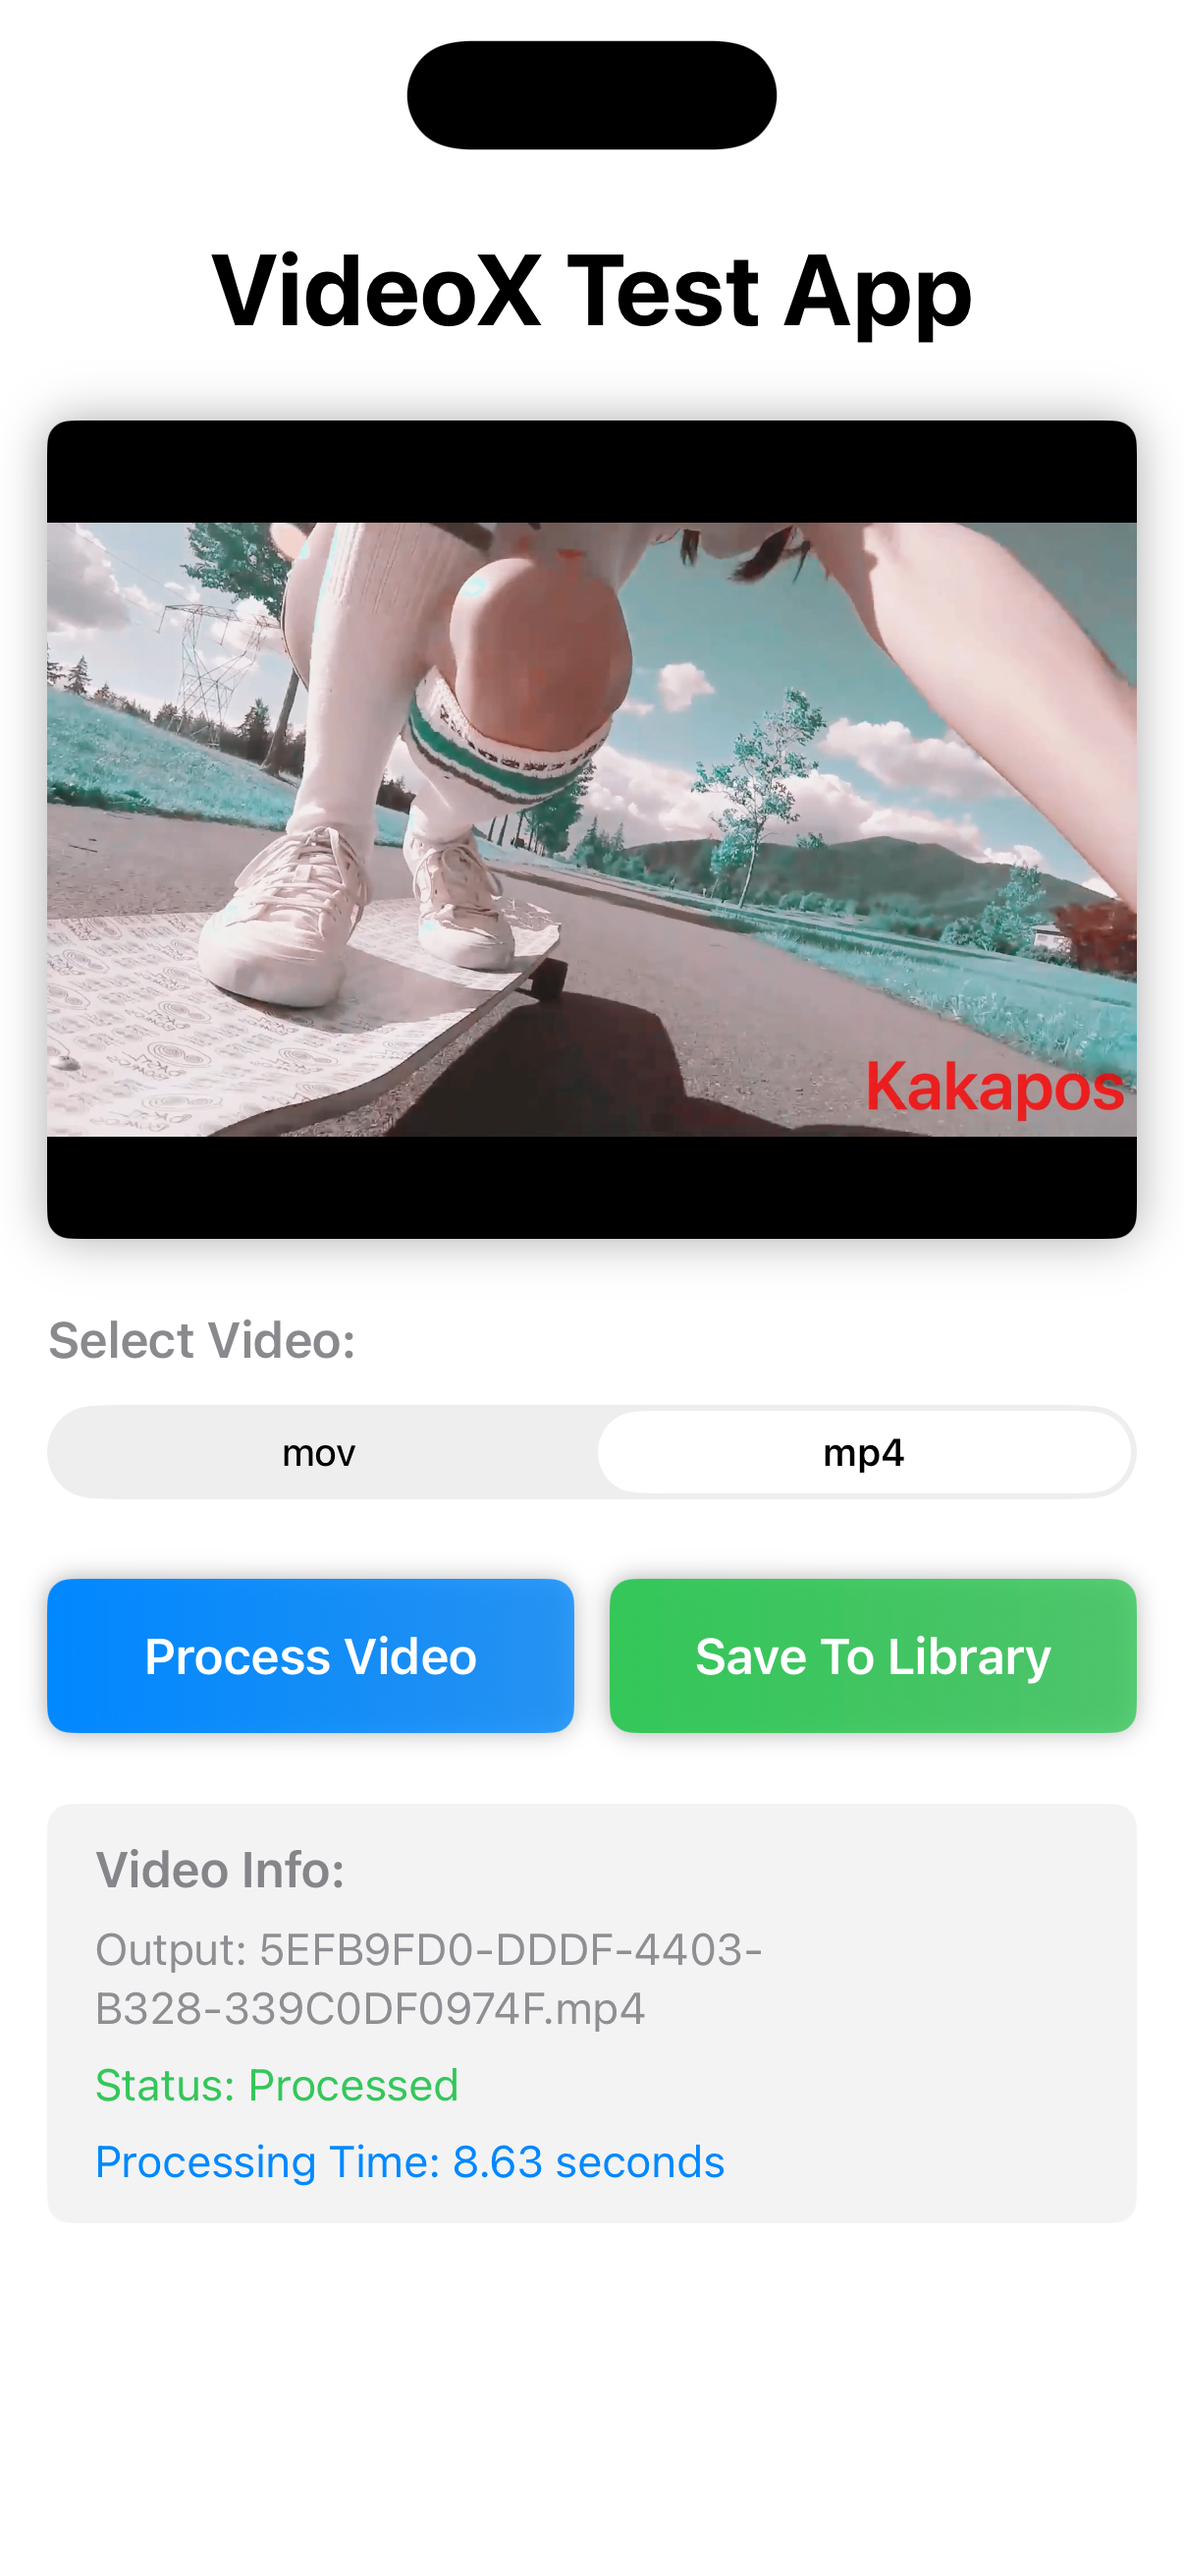
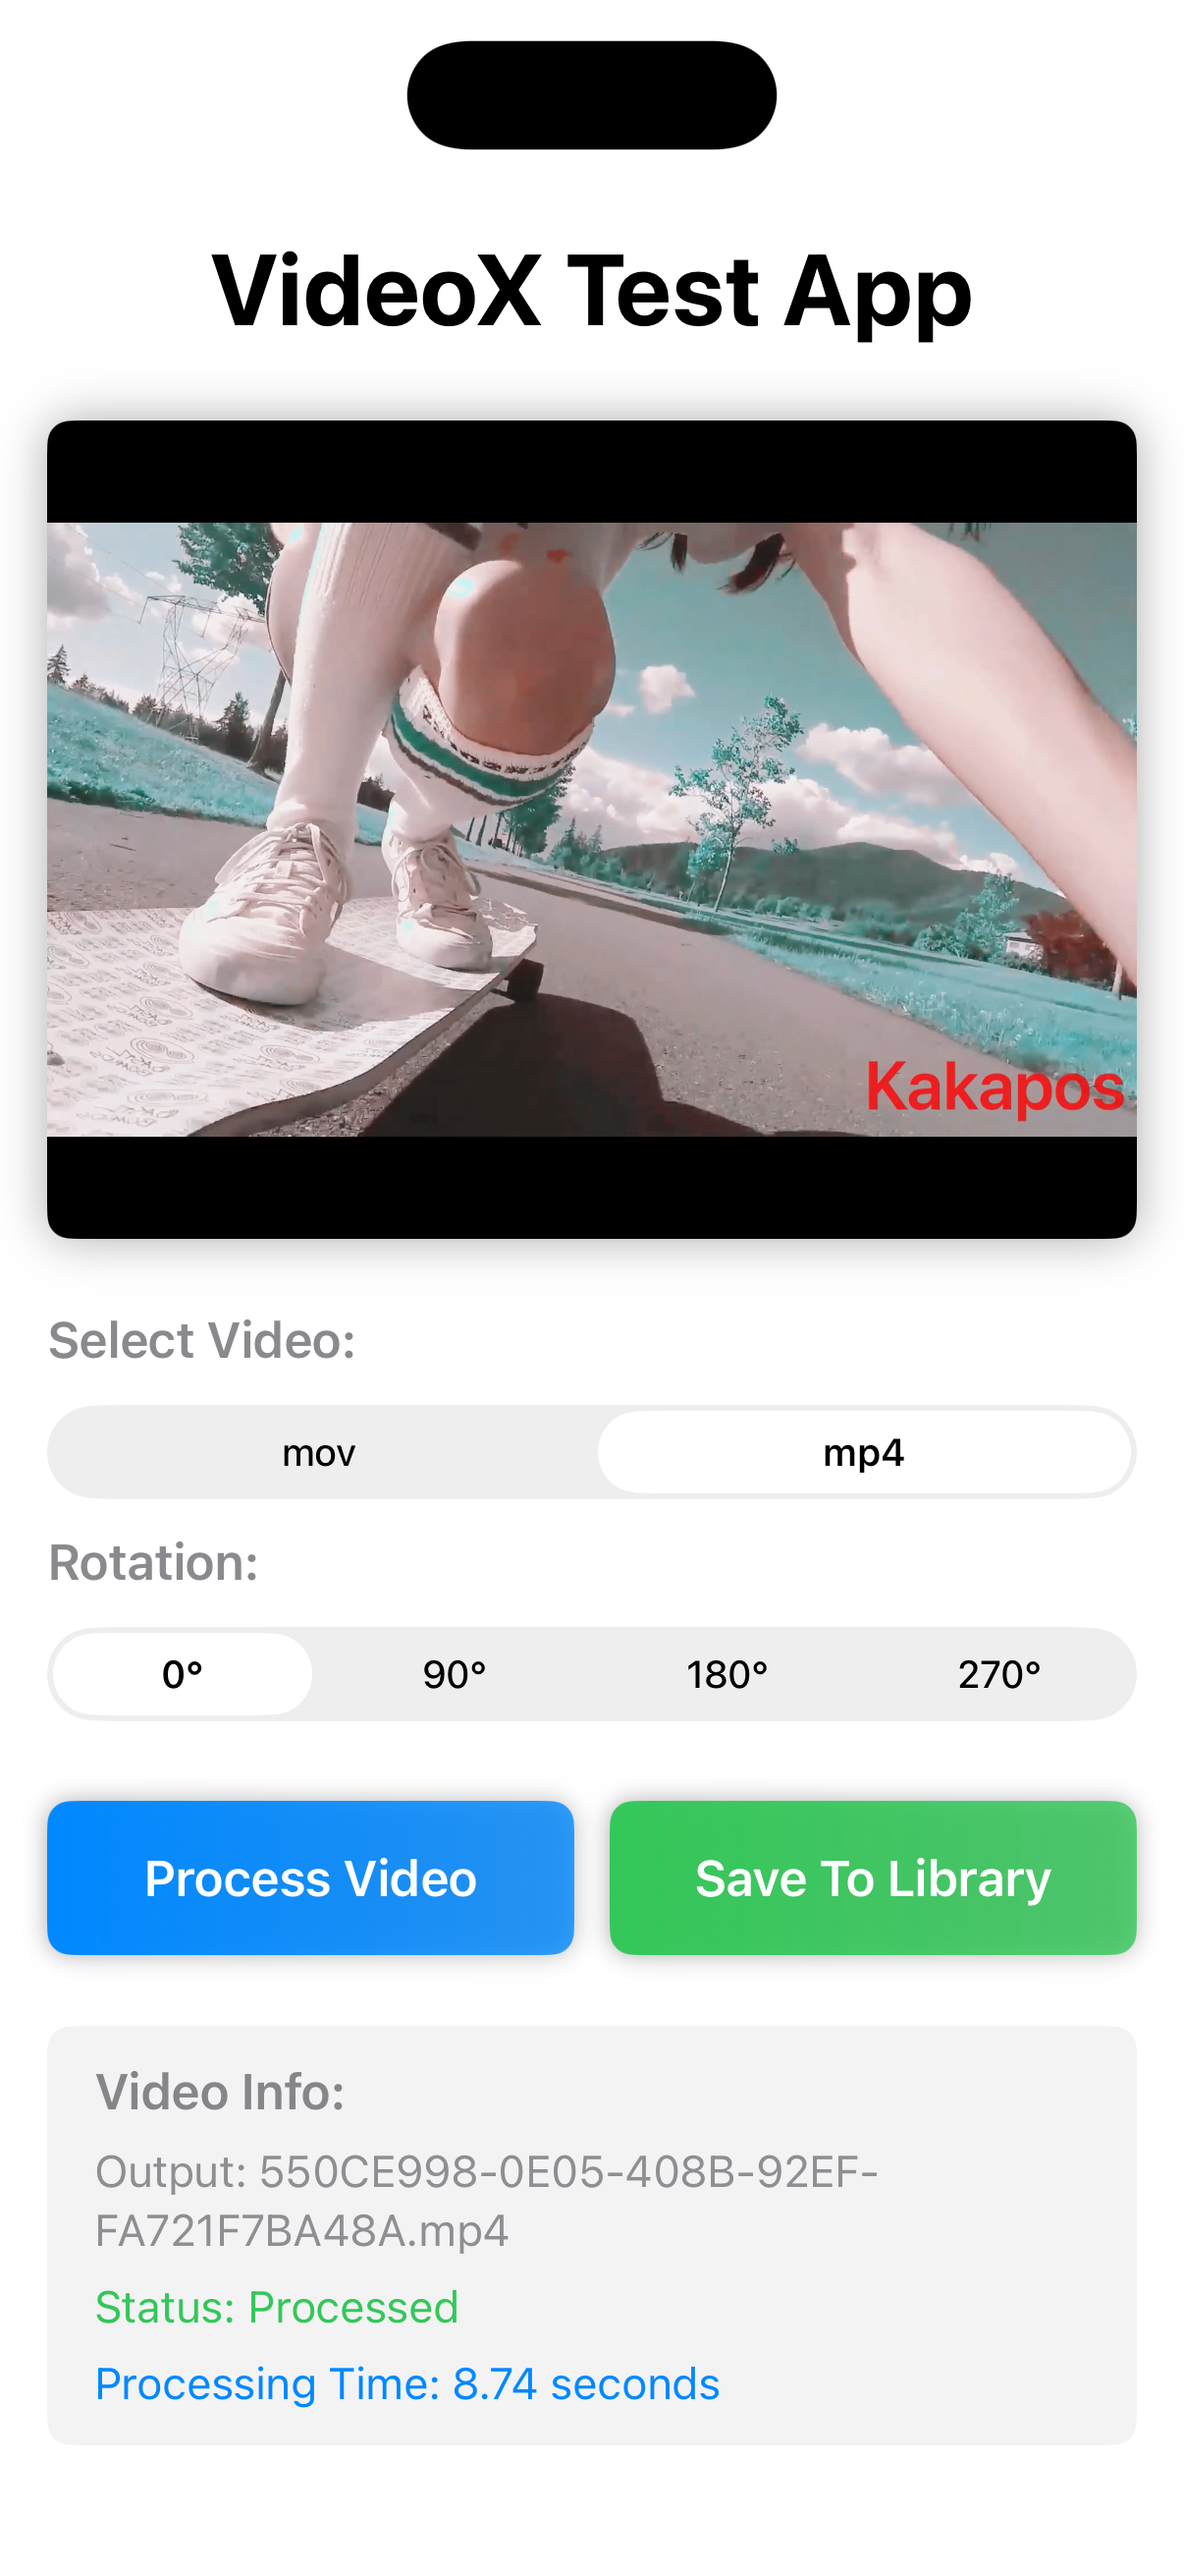
Add the rotation instruction - realize fixed-angle rotation

diff --git a/Sources/Core/VideoCompositor.swift b/Sources/Core/VideoCompositor.swift
@@ -53,7 +53,7 @@ final class VideoCompositor: NSObject, AVVideoCompositing, @unchecked Sendable {
                     
                     // 只处理单轨道
                     if let trackID = instruction.trackID, let pixelBuffer = request.sourceFrame(byTrackID: trackID) {
-                        let transformedBuffer = self.applyTransform(to: pixelBuffer, renderSize: renderSize)
+                        let transformedBuffer = self.applyTransform(to: pixelBuffer, renderSize: renderSize, instruction: instruction)
                         if let transformedBuffer = transformedBuffer {
                             instruction.operationPixelBuffer(transformedBuffer, block: callback, for: request)
                         } else {
@@ -100,17 +100,42 @@ extension VideoCompositor {
         return pixelBuffer
     }
     
-    private func applyTransform(to pixelBuffer: CVPixelBuffer, renderSize: CGSize) -> CVPixelBuffer? {
-        let pixelBufferWidth  = CVPixelBufferGetWidth(pixelBuffer)
-        let pixelBufferHeight = CVPixelBufferGetHeight(pixelBuffer)
-        if (pixelBufferWidth == Int(renderSize.width)) && (pixelBufferHeight == Int(renderSize.height)) {
+    private func applyTransform(to pixelBuffer: CVPixelBuffer, renderSize: CGSize, instruction: CompositionInstruction) -> CVPixelBuffer? {
+        if let rotationAngle = getRotationAngle(from: instruction) {
+            let isMovVideo = isMovVideo(instruction)
+            return processRotation(pixelBuffer, rotationAngle: rotationAngle, renderSize: renderSize, isMovVideo: isMovVideo)
+        }
+        if !isMovVideo(instruction) {
             return nil
         }
-        
+        /// Fix mov format video of rotating 90 to the left.
+        return processRotation(pixelBuffer, rotationAngle: .angle0, renderSize: renderSize, isMovVideo: true)
+    }
+    
+    private func getRotationAngle(from instruction: CompositionInstruction) -> RotationAngle? {
+        if let compositeInstruction = instruction as? CompositeInstruction {
+            for subInstruction in compositeInstruction.instructions {
+                if let rotateInstruction = subInstruction as? RotateInstruction {
+                    return rotateInstruction.rotationAngle
+                }
+            }
+        } else if let rotateInstruction = instruction as? RotateInstruction {
+            return rotateInstruction.rotationAngle
+        }
+        return nil
+    }
+    
+    private func isMovVideo(_ instruction: CompositionInstruction) -> Bool {
+        if let provider = instruction.provider {
+            return provider.orientation == .right
+        }
+        return false
+    }
+    
+    private func processRotation(_ pixelBuffer: CVPixelBuffer, rotationAngle: RotationAngle, renderSize: CGSize, isMovVideo: Bool) -> CVPixelBuffer? {
         guard let cgImage = toCGImage(pixelBuffer: pixelBuffer) else {
             return nil
         }
-        
         let outputWidth  = Int(renderSize.width)
         let outputHeight = Int(renderSize.height)
         guard let outputPixelBuffer = createBlankPixelBuffer(width: outputWidth, height: outputHeight) else {
@@ -139,12 +164,13 @@ extension VideoCompositor {
         
         context.clear(CGRect(x: 0, y: 0, width: outputWidth, height: outputHeight))
         
-        // preferredTransform: CGAffineTransform(a: 0.0, b: 1.0, c: -1.0, d: 0.0, tx: 1080.0, ty: 0.0)
-        // Rotate 90 degrees to the right, and then tx: 1080.0, ty: 0.0, move the image to the top left corner.
-        context.translateBy(x: 0, y: renderSize.height)
-        context.rotate(by: -CGFloat.pi / 2)
+        if let (transX, transY, rotate) = rotationAngle.rotation(isMovVideo: isMovVideo, renderSize: renderSize) {
+            context.translateBy(x: transX, y: transY)
+            context.rotate(by: rotate)
+        }
         
-        context.draw(cgImage, in: CGRect(x: 0, y: 0, width: cgImage.width, height: cgImage.height))
+        let imageRect = CGRect(x: 0, y: 0, width: cgImage.width, height: cgImage.height)
+        context.draw(cgImage, in: imageRect)
         
         return outputPixelBuffer
     }

diff --git a/KakaposExamples/ContentView.swift b/KakaposExamples/ContentView.swift
@@ -23,8 +23,15 @@ struct ContentView: View {
     @State var isPlaying: Bool = false
     @State var processingTime: String = ""
     @State var startTime: Date? = nil
+    @State var selectedRotation: RotationAngle = .angle0
     
     let videoOptions = ["mov", "mp4"]
+    let rotationOptions: [(String, RotationAngle)] = [
+        ("0°", .angle0),
+        ("90°", .angle90),
+        ("180°", .angle180),
+        ("270°", .angle270)
+    ]
     
     var body: some View {
         NavigationView {
@@ -76,6 +83,21 @@ struct ContentView: View {
                     .pickerStyle(.segmented)
                     .padding(.vertical, 4)
                 }
+                .padding(.horizontal, 16)
+                
+                VStack(alignment: .leading, spacing: 8) {
+                    Text("Rotation:")
+                        .font(.headline)
+                        .foregroundColor(.secondary)
+                    Picker("Rotation", selection: $selectedRotation) {
+                        ForEach(rotationOptions, id: \.1) { option in
+                            Text(option.0).tag(option.1)
+                        }
+                    }
+                    .pickerStyle(.segmented)
+                    .padding(.vertical, 4)
+                }
+                .padding(.top, -16)
                 .padding(.horizontal, 16)
                 
                 HStack(spacing: 12) {
@@ -232,13 +254,21 @@ struct ContentView: View {
             margin: 20,
             opacity: 0.8,
         )
+        
+        // 创建指令数组
+        var instructions: [CompositionInstruction] = [filtering, textWatermark]
+        
+        // 如果选择了非0度旋转，添加旋转指令
+        if selectedRotation != .angle0 {
+            let rotateInstruction = RotateInstruction(rotationAngle: selectedRotation)
+            instructions.insert(rotateInstruction, at: 0)
+        }
+        
         let exporter = VideoX.init(provider: .init(with: videoURL))
         let _ = exporter.export(options: [
             .OptimizeForNetworkUse: true,
             .ExportSessionTimeRange: TimeRangeType.range(2...20.0),
-        ], instructions: [
-            filtering, textWatermark
-        ], complete: { res in
+        ], instructions: instructions, complete: { res in
             self.showLoadingIndicator = false
             if let startTime = self.startTime {
                 let elapsedTime = Date().timeIntervalSince(startTime)

diff --git a/Sources/Instructions/RotateInstruction.swift b/Sources/Instructions/RotateInstruction.swift
@@ -1,0 +1,70 @@
+//
+//  RotateInstruction.swift
+//  Kakapos
+//
+//  Created by Condy on 2024/4/12.
+//
+
+import Foundation
+import AVFoundation
+import CoreVideo
+
+public enum RotationAngle: Int, CaseIterable {
+    case angle0   = 0
+    case angle90  = 90
+    case angle180 = 180
+    case angle270 = 270
+    
+    var radians: CGFloat {
+        return CGFloat(self.rawValue) * .pi / 180.0
+    }
+    
+    var shouldSwapDimensions: Bool {
+        return self == .angle90 || self == .angle270
+    }
+    
+    /// For mov video, adjust the rotation angle and rotate 90 degrees less.
+    /// For mp4 videos, normal processing of rotation.
+    func rotation(isMovVideo: Bool, renderSize: CGSize) -> (x: CGFloat, y: CGFloat, angle: CGFloat)? {
+        switch self {
+        case .angle0:
+            return isMovVideo ? (x: 0, y: renderSize.height, angle: -.pi / 2) : nil
+        case .angle90:
+            return isMovVideo ? nil : (x: renderSize.width, y: 0, angle: .pi / 2)
+        case .angle180:
+            return isMovVideo ? (x: renderSize.width, y: 0, angle: .pi / 2) : (x: renderSize.width, y: renderSize.height, angle: .pi)
+        case .angle270:
+            return isMovVideo ? (x: renderSize.width, y: renderSize.height, angle: .pi) : (x: 0, y: renderSize.height, angle: -.pi / 2)
+        }
+    }
+}
+
+/// Rotation instruction - realize fixed-angle rotation
+public final class RotateInstruction: Instruction, InstructionProtocol, @unchecked Sendable {
+    
+    public let rotationAngle: RotationAngle
+    
+    public init(rotationAngle: RotationAngle) {
+        self.rotationAngle = rotationAngle
+        super.init()
+    }
+    
+    public required init?(coder aDecoder: NSCoder) {
+        fatalError("init(coder:) has not been implemented")
+    }
+    
+    public override func setup() {
+        super.setup()
+    }
+    
+    public func rotatedSize(from originalSize: CGSize) -> CGSize {
+        if rotationAngle.shouldSwapDimensions {
+            return CGSize(width: originalSize.height, height: originalSize.width)
+        }
+        return originalSize
+    }
+    
+    public func operationPixelBuffer(_ buffer: CVPixelBuffer, block: @escaping BufferBlock, for request: AVAsynchronousVideoCompositionRequest) {
+        block(buffer)
+    }
+}

diff --git a/Sources/Core/VideoX.swift b/Sources/Core/VideoX.swift
@@ -196,10 +196,30 @@ extension VideoX {
         let videoComposition = AVMutableVideoComposition()
         videoComposition.customVideoCompositorClass = VideoCompositor.self
         videoComposition.frameDuration = VideoX.Option.setupVideoFrameDuration(options: options)
-        videoComposition.renderSize = composition.naturalSize
         videoComposition.renderScale = VideoX.Option.setupRenderScale(options: options)
+        videoComposition.renderSize = setupRenderSize(for: composition, instructions: instructions)
         videoComposition.instructions = instructions
         return videoComposition
+    }
+    
+    private func setupRenderSize(for composition: AVComposition, instructions: [CompositionInstruction]) -> CGSize {
+        var renderSize = composition.naturalSize
+        
+        for instruction in instructions {
+            if let compositeInstruction = instruction as? CompositeInstruction {
+                for subInstruction in compositeInstruction.instructions {
+                    if let rotateInstruction = subInstruction as? RotateInstruction {
+                        renderSize = rotateInstruction.rotatedSize(from: renderSize)
+                        break
+                    }
+                }
+            } else if let rotateInstruction = instruction as? RotateInstruction {
+                renderSize = rotateInstruction.rotatedSize(from: renderSize)
+                break
+            }
+        }
+        
+        return renderSize
     }
     
     private func setupAudioMix() -> AVAudioMix? {

diff --git a/Sources/Instructions/CompositeInstruction.swift b/Sources/Instructions/CompositeInstruction.swift
@@ -12,7 +12,7 @@ import CoreVideo
 /// Composite instructions are used to process multiple instructions sequentially.
 public final class CompositeInstruction: Instruction, InstructionProtocol, @unchecked Sendable {
     
-    private let instructions: [CompositionInstruction]
+    let instructions: [CompositionInstruction]
     
     public init(instructions: [CompositionInstruction]) {
         self.instructions = instructions
